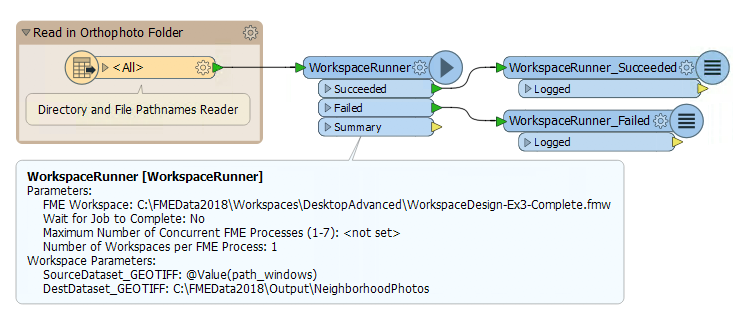
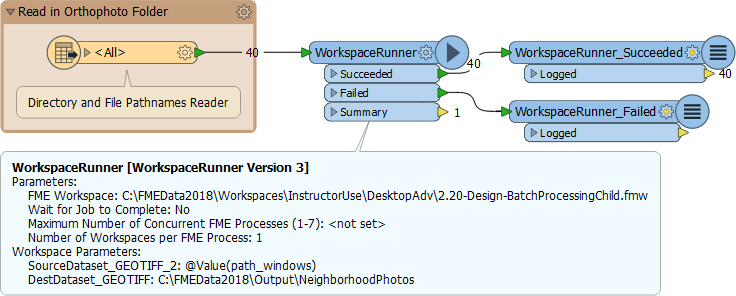
Adv Ch2 2018.1 and Grammarly review + changes for instructor workspaces

diff --git a/DesktopAdvanced2WorkspaceDesign/2.20.BatchProcessing.md b/DesktopAdvanced2WorkspaceDesign/2.20.BatchProcessing.md
@@ -6,23 +6,23 @@ Batch processing is the execution of a series of workspaces in FME or the proces
 
 ## Batch Processing Using the WorkspaceRunner ##
 
-The WorkspaceRunner is a transformer that will run another FME workspace when it is used in a translation. When it is used in conjunction with the Directory and File Pathname reader it can be used for batch processing. 
+The WorkspaceRunner is a transformer that runs another FME workspace when used in a translation. Used in conjunction with the Directory and File Pathname reader it can be used for batch processing. 
 
-For example, we have a workspace that reads in orthophotos and neighborhood boundaries that merges the orthophotos into one image and then clips it to the neighborhood boundaries, removes the black borders created by the clip and then writes back out to GeoTiff by neighborhood name:
+For example, we have a workspace that reads in orthophoto tiles and clips them to neighborhood boundaries, writing them using a combination of tile and neighborhood as the output filename:
 
-![](./Images/Img2.065.OrthophotoWorkspace.png)
+![](./Images/Img2.075.BatchProcessingChildWorkspace.png)
 
-Each week we get new orthophotos and instead of changing the data in the previous workspace, we can create a workspace to batch process all the new files, this also allows FME to start multiple processes so the data will be processed faster:
+Imagine we get new orthophotos each week. Instead of changing the data in the previous workspace each time, we create a workspace to batch process all the new files. This allows FME to start multiple processes simultaneously so that the data is processed faster:
 
 ![](./Images/Img2.072.WorkspaceRunnerOverview.png)
 
-To setup, the WorkspaceRunner, set the FME Workspace to the workspace you are looking to batch process. Then set the Source File to path_windows which is created by the Directory and File Pathnames Reader:
+To set up the WorkspaceRunner, the FME Workspace parameter is pointed to the workspace to be batch processed. The Source File parameter is set to *path_windows*, an attribute created by the Directory and File Pathnames Reader:
 
 ![](./Images/Img2.066.WorkspaceRunnerParameters.png)
 
-If you have a job that needs to be completed before the next one runs, there is an option to Wait for Jobs to Complete. This will ensure a job is completed before starting another one. Setting this option will prevent multiple Concurrent FME Processes. 
+The option to Wait for Jobs to Complete ensures one job is completed before starting another. Setting this option prevents multiple Concurrent FME Processes. 
 
-If the jobs can be completed in any order, you can set the Maximum Number of Concurrent FME Processes, up to 7. This will start multiple FME processes which can be seen in the Details tab of the Windows Task Manager:
+If the job order is unimportant, the parameter Maximum Number of Concurrent FME Processes can be set. This causes multiple FME processes (up to a maximum of seven) to be launched, and these can be seen in the Details tab of Windows Task Manager:
 
 ![](./Images/Img2.067.TaskManagerFMEProcesses.png)
 
@@ -71,10 +71,8 @@ If you chose to run the workspace now, clicking finish in the wizard will run th
 <tr>
 <td style="border: 1px solid darkorange">
 <span style="font-family:serif; font-style:italic; font-size:larger">
-Batch Processing can also be done using the command line or a FME Command File. These techniques are more advanced then we want to get into for this course, but if you are interested in learning more you can check out the Knowledge Base Article <a href="https://knowledge.safe.com/articles/1384/fme-batch-processing-methods-1.html" alt="Batch Processing Article">FME Batch Processing Methods</a>
+Batch Processing can also be done using the command line or an FME Command File. These techniques are more advanced then we want to get into for this course, but if you are interested in learning more you can check out the Knowledge Base Article <a href="https://knowledge.safe.com/articles/1384/fme-batch-processing-methods-1.html" alt="Batch Processing Article">FME Batch Processing Methods</a>
 </span>
 </td>
 </tr>
 </table>
-
----
